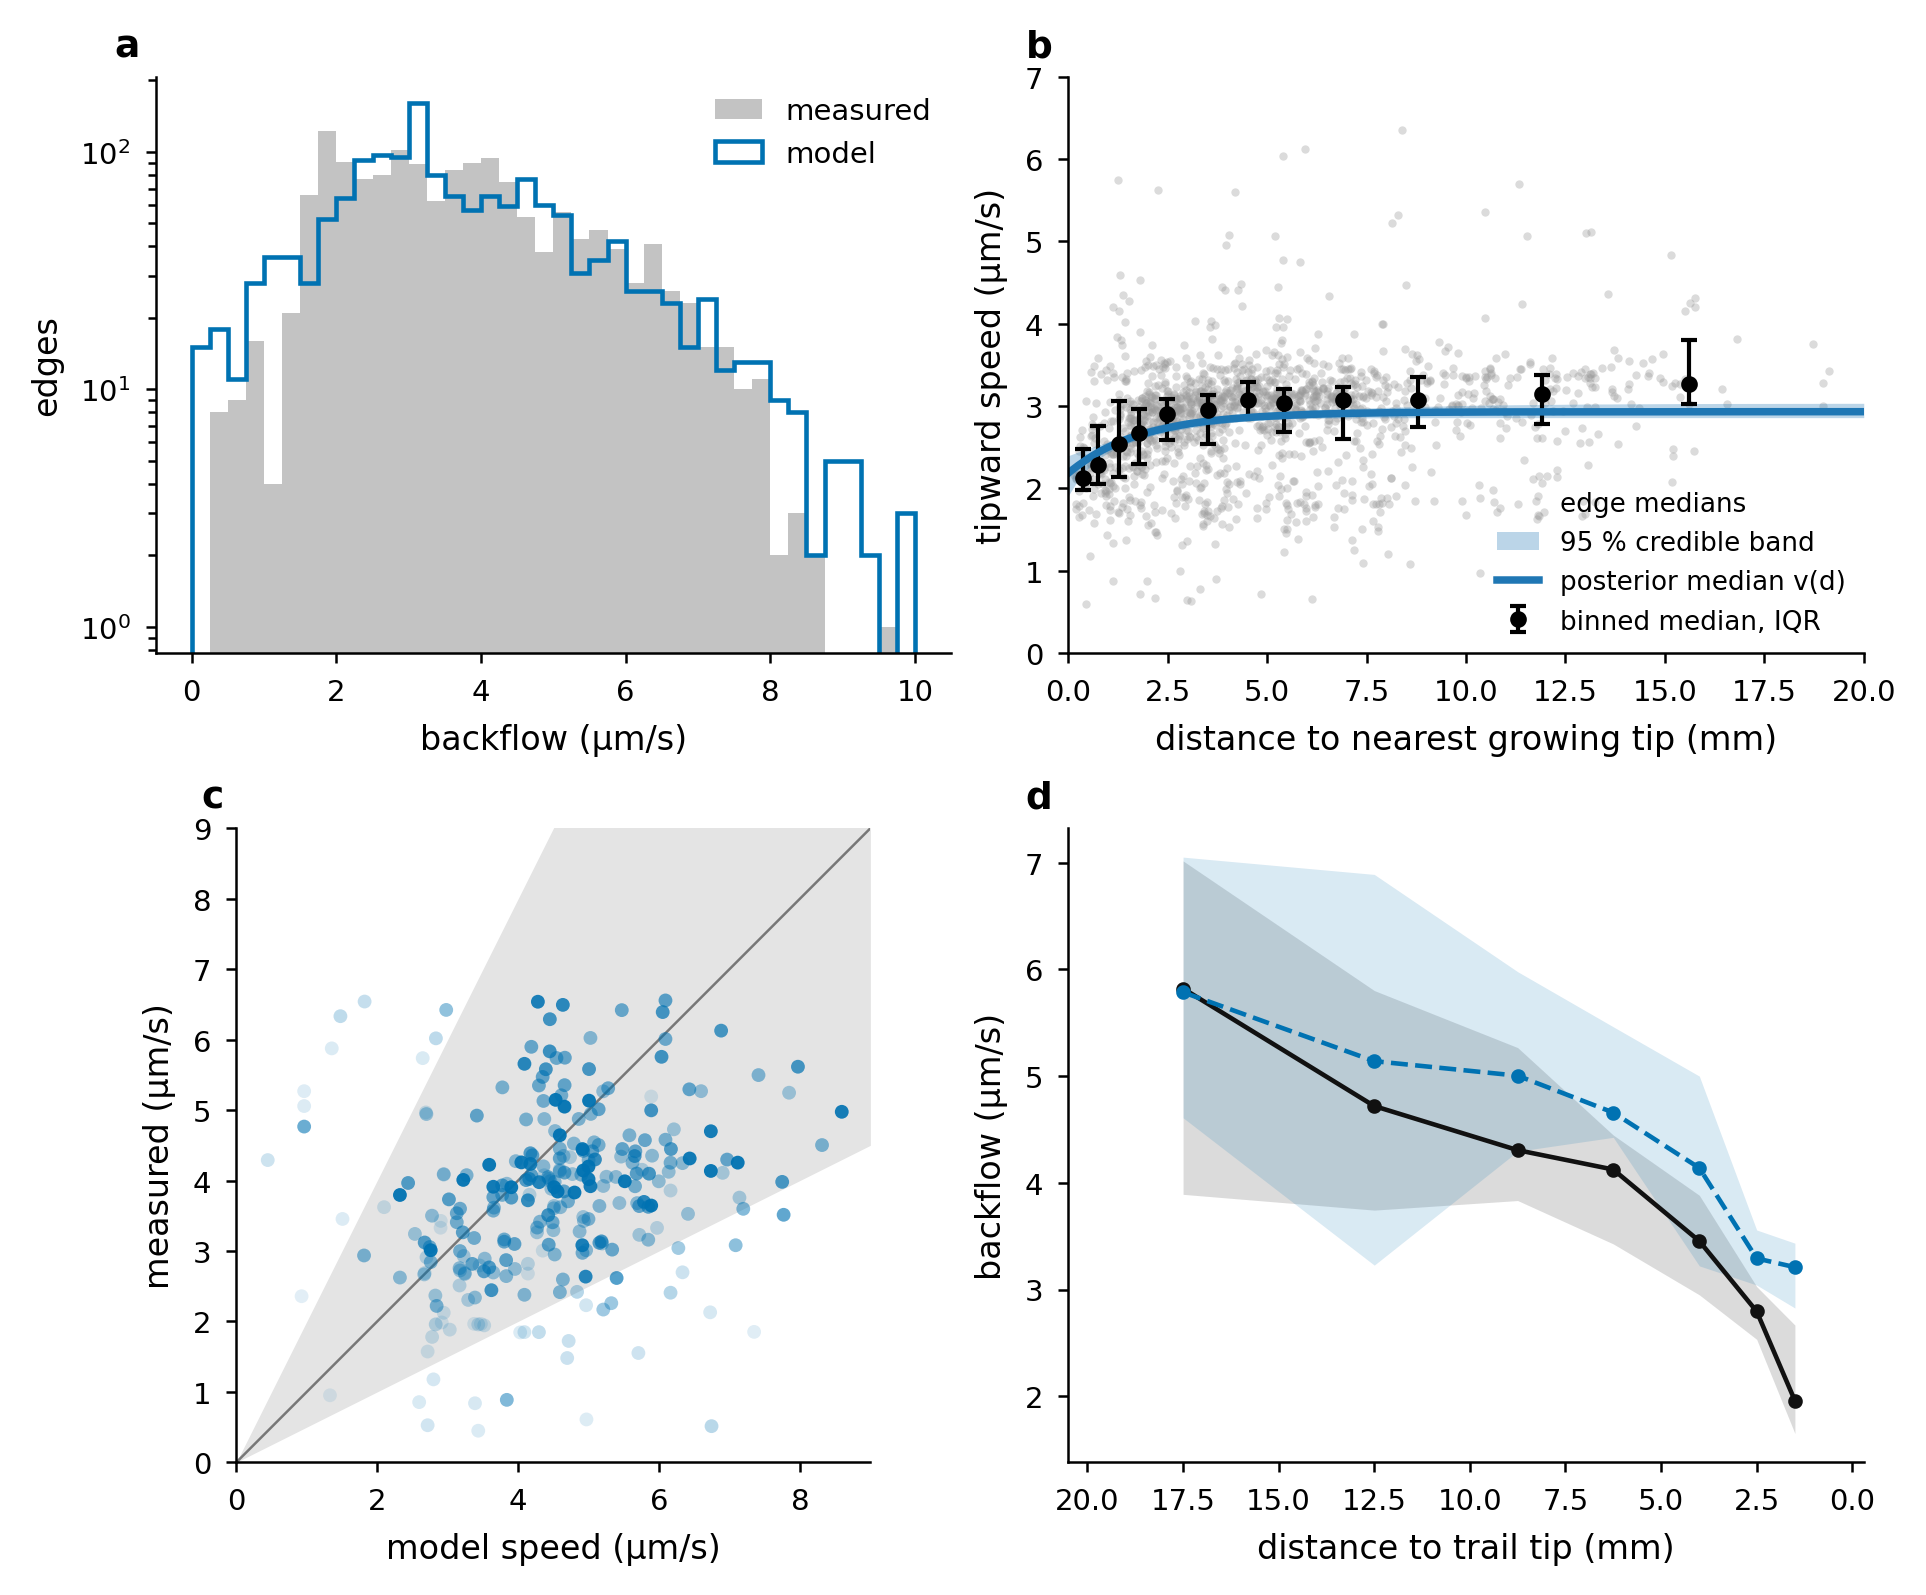
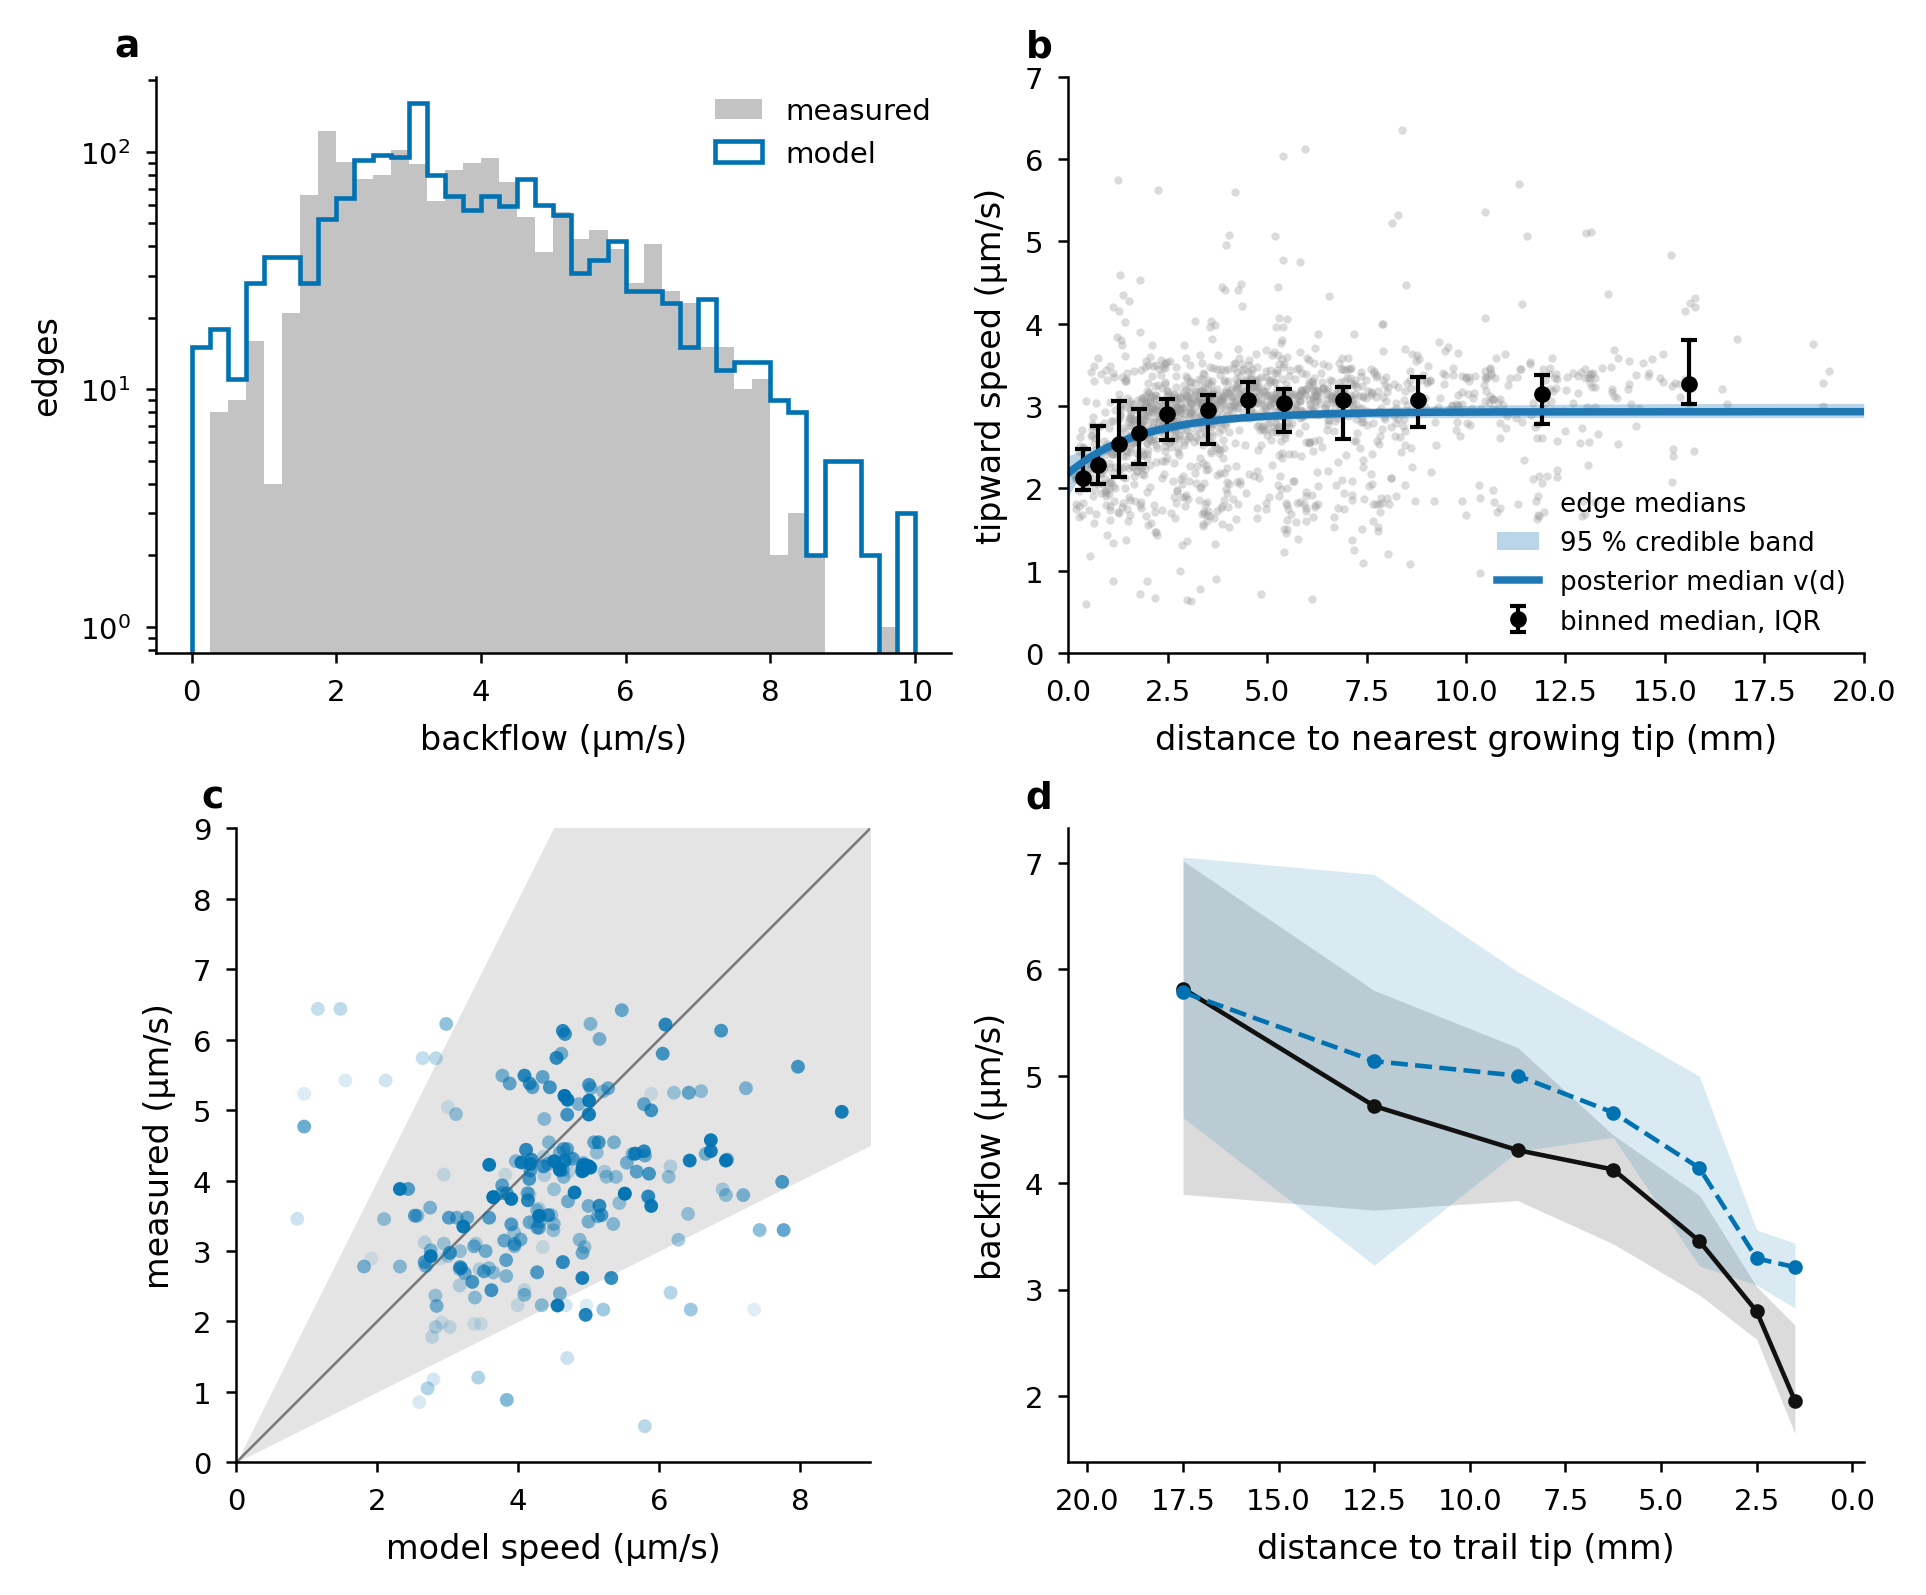
Fig 5c: model and measurement as medians over +-0.5 mm along the trail (88 % within 2x, bias 1.17); caption numbers; note with the sweep and the constant baseline

diff --git a/01_Article_MainText.tex b/01_Article_MainText.tex
@@ -349,13 +349,14 @@ Measured bright-field speeds (grey, black) against the model (blue): global pres
 Measured speeds are the median of the kymograph streaks of each video direction; directions with fewer than 5 streaks and video edges shorter than 20~$\mu$m are left out.
 \textbf{(a)} Distribution of the rootward speed over every measured edge, measured (grey bars) and modelled (blue line), counts on a log axis (1,544 edges in 15 sessions on 5 plates; 77.5\% within a factor 2); speeds of 10~$\mu$m/s and above fall in the last bin.
 \textbf{(b)} Tipward speed against distance to the nearest growing tip: edge medians (grey, 1,481 edges), binned medians with 25th--75th percentile (black), and a hierarchical Bayesian fit of $v(d) = v_\infty - (v_\infty - v_{\mathrm{tip}})\, e^{-d/\ell}$ (posterior median and 95\% credible band, blue): $v_{\mathrm{tip}} = 2.18$ [1.92, 2.39]~$\mu$m/s, $v_\infty = 2.93$ [2.86, 3.03]~$\mu$m/s, $\ell = 1.85$ [1.11, 3.52]~mm (SI, \nameref{subsec:si_forward_flow}).
-\textbf{(c)} Measured against modelled rootward speed on the 274 trail segments within 10~mm of the trail tip: 86\% within a factor 2, median ratio of modelled to measured 1.21.
+\textbf{(c)} Measured against modelled rootward speed on the 274 trail segments within 10~mm of the trail tip, each as the median over the trail's segments within $\pm$0.5~mm (measured: of the measured segments only): 88\% within a factor 2, median ratio of modelled to measured 1.17.
 Paler points have a larger uncertainty (the measured interquartile range and the range of the model within $\pm$0.5~mm along the trail, combined); grey wedge: within a factor 2; line: identity.
 \textbf{(d)} Rootward speed on trail segments against the distance to the trail's tip at the session, in bins of 0--1, 1--2, 2--3, 3--5, 5--7.5, 7.5--10, 10--15 and 15--20~mm holding 3, 14, 19, 65, 73, 100, 130 and 88 measured segments; line: bin median, band: 25th--75th percentile (grey: measured, blue: model).}
     \label{fig:fig5_plug}
 \end{figure}
 % NOTE (15 Oct, main-text review): The Fig 5 caption was drafted by Claude (Simon, 15 Oct) from the current panels and numbers (note below). Panel (b) shows the Bayesian fit, while the model runs on the earlier least-squares constants of the same form (3.10 / 2.14 um/s, 1.71 mm; Methods), so 'motors at the profile of (b)' is approximate.
 % NOTE (15 Oct, Keras widths; supersedes the numbers of the Fig 5 notes above where they differ): The main model now runs on the recalibrated Keras widths (0.75 times the legacy Keras width, with a fallback of 0.83 times the segmenter width; Methods, transport model). The files figures/fig_plug_model.png and fig6_model_examples.png were redrawn (transport_paper junction/global_gimf_gimf_minedge20_keras_ratio_fb, feat/flow-regime). In (a), with 1,544 edges in 15 sessions, 77.5 % of all edges are within a factor of 2 (segmenter widths 78.0 %), KS is 0.056 and the median fold error is 1.45. Panel (b) is unchanged. In (c), 274 trail segments are 86 % within a factor of 2, with bias 1.21. In (d) the bin counts are unchanged (3, 14, 19, 65, 73, 100, 130, 88). In Fig 6b, 30 segments are 90 % within a factor of 2, with median |log2 error| 0.31. Model over measured by lumen-width tercile is 1.15 / 1.03 / 0.99 (segmenter 1.20 / 1.05 / 0.96). Within 1 mm of a tip the model gives 3.11 um/s (segmenter 2.84, measured 2.17); beyond 8 mm it gives 3.50 (measured 4.22). The theta sweep and the model-variant comparisons were run on the segmenter widths.
+% NOTE (17 Oct, Fig 5c window, Simon): Panel c now shows both the model and the measurement as medians over the trail's segments within +-0.5 mm (model_accuracy_two_models.py --model-window-median 500 --meas-window-median 500; only panel c changed). Sweep on the 274 segments (within 2x / bias / mean |log2 err| / log-log rho): no window 86 % / 1.21 / 0.56 / 0.18; model only 500 um 87 % / 1.19 / 0.52 / 0.18; measured only 500 um 85 % / 1.19 / 0.52 / 0.17; both 250 um 88 % / 1.19 / 0.51 / 0.17; both 500 um 88 % / 1.17 / 0.48 / 0.19; both 1 mm 89 % / 1.17 / 0.47 / 0.18; both 2 mm 93 % / 1.17 / 0.40 / 0.29 (at that scale it compares trail trends, and neighbouring points share most of their data). A constant model (4.2 um/s on every segment) is within a factor of 2 on 91 % of these segments, because the measured speeds span a narrow range (25th-75th percentile 3.0-4.4 um/s), so the within-2x share on trail segments is a weak test; the model's case rests on the distribution over all edges (5a), the rise away from tips (5d), growth (6b) and routing (6g).
 
 \begin{figure}
     \centering
